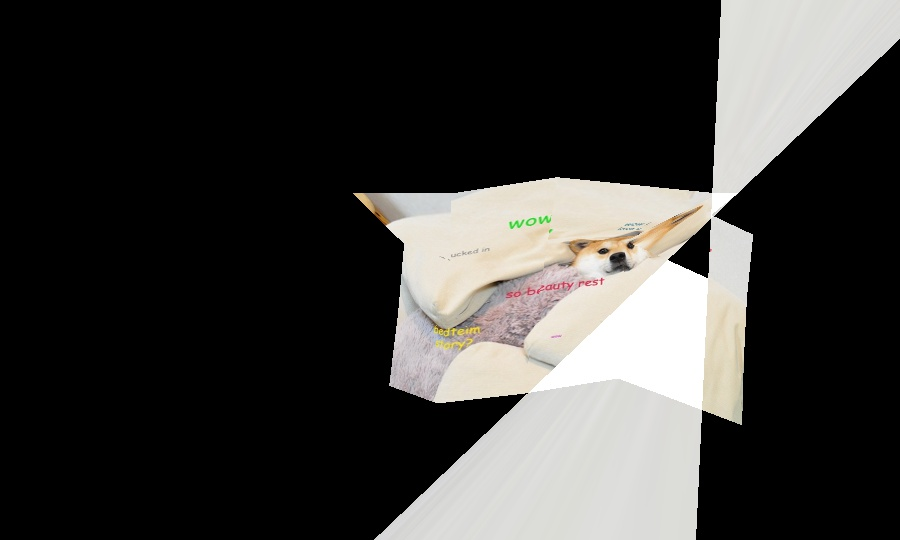
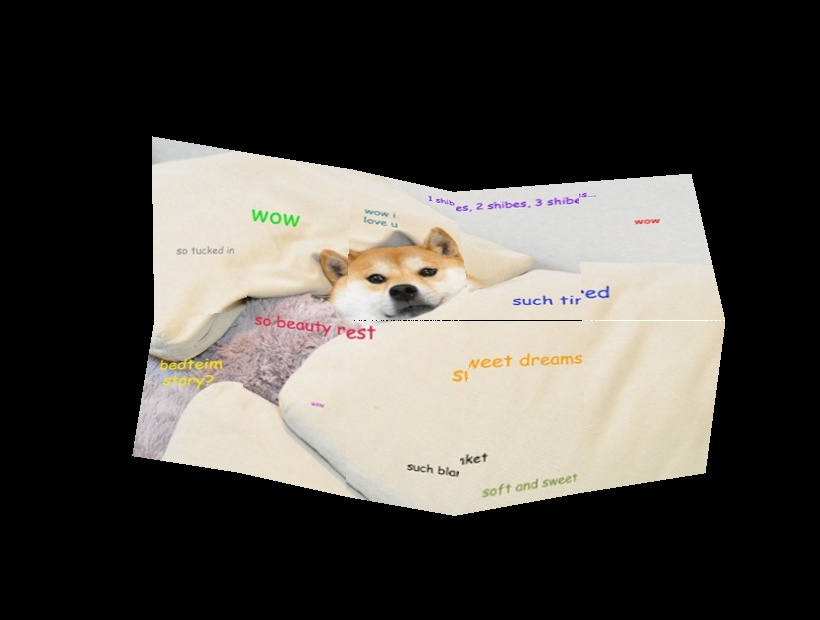
kakkaaaayyyyy

diff --git a/routes/warpMedia.js b/routes/warpMedia.js
@@ -11,7 +11,7 @@ router.post('/warp', bodyParserUrl, function(req,res){
 
 
     // python warpMedia.py [rows] [cols] [mediaId] [x] [y] [w] [h]
-    var process = spawn('python',["python/warpMedia.py", req.body.rows, req.body.cols,
+    var process = spawn('python',["python/calibration.py", req.body.rows, req.body.cols,
                                 req.body.mediaId, req.body.x, req.body.y, req.body.width, req.body.height]);
 
     process.stdout.on('data',function(chunk){

diff --git a/python/calibration.py b/python/calibration.py
@@ -16,15 +16,13 @@ img = cv2.imread(os.getcwd() + "/user/camera/" + sys.argv[3] + "/0.jpg")
 # 1 | 2
 # --+--
 # 3 | 4
-def find_fence(pt, pts): #indices
+def find_quad(pt, pts): #indices
     img0 = img.copy()
     quad1_pts = np.asarray([p for p in pts if (p[0]<=pt[0] and p[1]>pt[1])]) # x' < x, y' > y
     quad2_pts = np.asarray([p for p in pts if (p[0]>pt[0] and p[1]>pt[1])]) # x' > x, y' > y
     quad3_pts = np.asarray([p for p in pts if (p[0]<=pt[0] and p[1]<=pt[1])]) # x' < x, y' < y
     quad4_pts = np.asarray([p for p in pts if (p[0]>pt[0] and p[1]<=pt[1])])# x' > x, y' < y
     cv2.circle(img0, (pt[0], pt[1]), 3, [255,255,255], -1)
-    print "top left: ", pts[0]
-    print "point: ", pt
     for pt1 in quad1_pts:
         cv2.circle(img0, (pt1[0], pt1[1]), 3, [0,255,0], -1)
     for pt2 in quad2_pts:
@@ -86,7 +84,7 @@ def reverse_warp_helper(original_points, warp_pts, target, forwarp):
             else:
                 target[y,x] = [0,0,0]
 
-def warp_image(original_points, forwarp, points_shape, warp_pts):
+def warp_image(original_points, forwarp, points_shape, warp_pts, path):
     # points_shape: (rows, cols) tuple, describing the layout of dots e.g. 9 dots (3,3) or 12 dots (3,4)
     blank = np.zeros(forwarp.shape, dtype=np.uint8)
     #this function passes indices to a helper, which will transform that sub-rectangle
@@ -101,10 +99,15 @@ def warp_image(original_points, forwarp, points_shape, warp_pts):
             original_corners = [original_points[index], original_points[index+1],
                                 original_points[index+cols], original_points[index+cols+1]]
             warp_corners = [warp_pts[index], warp_pts[index+1], warp_pts[index+cols], warp_pts[index+cols+1]]
+
             reverse_warp_helper(original_corners, warp_corners, temp, forwarp)
+            # for corner in warp_corners:
+            #     cv2.circle(temp, (int(corner[0]), int(corner[1])), 3, [0,0,255], -1)
+            # cv2.imshow("temp", temp)
+            # cv2.waitKey(0)
         blank = cv2.add(blank, temp)
 
-    cv2.imwrite("path.jpg", blank)
+    cv2.imwrite(path, blank)
 
 
 fh = FindHomography()
@@ -116,9 +119,13 @@ w = float(sys.argv[6])
 h = float(sys.argv[7])
 
 number_points = rows * cols
+forwarp = cv2.imread(os.getcwd() + "/user/uploads/" + sys.argv[3]) # + ".jpg") #media for warp
 
+#   projection dots in the camera image
 cam_img_pts  = map(lambda x: x[0], read_dots(os.getcwd() + "/user/camera/" + sys.argv[3], number_points)) #camera points
+#   dot location in the calibration images
 orig_pts     = map(lambda x: x[0], read_dots(os.getcwd() + "/user/generated/" + sys.argv[3], number_points))
+#   the dot locations in the user-defined rectangle
 user_def_pts = map(lambda x: x[0], read_user_dots(os.getcwd() + "/user/generated/" + sys.argv[3], number_points, x,y,w,h,
                     cv2.imread(os.getcwd() + "/user/camera/" + sys.argv[3] + "/0.jpg").shape))
 cam_img_pts  = np.asarray(cam_img_pts)
@@ -126,6 +133,7 @@ orig_pts     = np.asarray(orig_pts)
 user_def_pts = np.asarray(user_def_pts)
 
 warp_coords = []
+# warp_coords contains all the coordinates of the dots in the pre-warp image
 
 for pt in user_def_pts:
     img2 = img.copy()
@@ -134,11 +142,11 @@ for pt in user_def_pts:
     if lpt in lcam:
         warp_coords.append(orig_pts[lcam.index(lpt)])
     else:
-        (a,b,c,d) = find_fence(pt, cam_img_pts)
+        (a,b,c,d) = find_quad(pt, cam_img_pts)
         print a,b,c,d
         cam_corners = [cam_img_pts[a], cam_img_pts[b], cam_img_pts[c], cam_img_pts[d]]
         for (cx, cy) in cam_corners:
-            cv2.circle(img2, (int(cx), int(cy)), 3, [0,255,0], -1)
+           cv2.circle(img2, (int(cx), int(cy)), 3, [0,255,0], -1)
         cv2.imshow("img", img2)
         cv2.waitKey(0)
         orig_corners = [orig_pts[a], orig_pts[b], orig_pts[c], orig_pts[d]]
@@ -151,4 +159,5 @@ for (x,y) in warp_coords:
     cv2.circle(img, (int(x), int(y)), 3, [0,0,255], -1)
     cv2.imshow("img", img)
     cv2.waitKey(0)
-warp_image(orig_pts, cv2.imread("python/images/doge.jpg"), (rows, cols), warp_coords)
+
+warp_image(orig_pts, forwarp, (rows, cols), warp_coords, os.getcwd() + "/user/final/" + sys.argv[3]+".jpg")

diff --git a/python/computeMapping.py b/python/computeMapping.py
@@ -115,6 +115,8 @@ def warp_image(original_points, forwarp, points_shape, user_points, cam_points, 
             cam_corners = [cam_points[index], cam_points[index+1], cam_points[index+cols], cam_points[index+cols+1]]
             user_corners = [user_points[index], user_points[index+1], user_points[index+cols], user_points[index+cols+1]]
             reverse_warp_helper(original_corners, user_corners, temp, forwarp, cam_corners, fx, fy, x, y)
+            cv2.imshow("temp", temp)
+            cv2.waitKey(0)
         blank = cv2.add(blank, temp)
 
     cv2.imwrite(path, blank)

diff --git a/python/resizeImages.py b/python/resizeImages.py
@@ -3,11 +3,12 @@ import cv2
 import numpy as np
 
 # TODO: automate getting the folder
-path =  os.getcwd() + "/images/4c28/"
+path =  os.getcwd() + "/Kermit/"
 filenames = os.listdir(path)
+print filenames
 
 for filename in filenames:
-   cv2.imwrite(path+filename, cv2.resize(cv2.imread(path+filename),None,fx=0.75, fy=0.75, interpolation = cv2.INTER_CUBIC))
+   cv2.imwrite(path+filename, cv2.resize(cv2.imread(path+filename),None,fx=0.3, fy=0.3, interpolation = cv2.INTER_CUBIC))
 
 # shape = (560, 996, 3)
 # for i in range(18):

diff --git a/python/detectPattern.py b/python/detectPattern.py
@@ -30,7 +30,7 @@ class DetectContours:
 
         gray = cv2.cvtColor(img, cv2.COLOR_BGR2GRAY)
         # TODO: fix the threshold to be based on overall image - relative brightness instead of absolute
-        (thresh, im_bw) = cv2.threshold(gray, 140, 255, cv2.THRESH_BINARY) # | cv2.THRESH_OTSU)
+        (thresh, im_bw) = cv2.threshold(gray, 143, 255, cv2.THRESH_BINARY) # | cv2.THRESH_OTSU)
         # cv2.imshow("b", im_bw)
         # cv2.waitKey(0)
         #im_bw = 255 - im_bw
